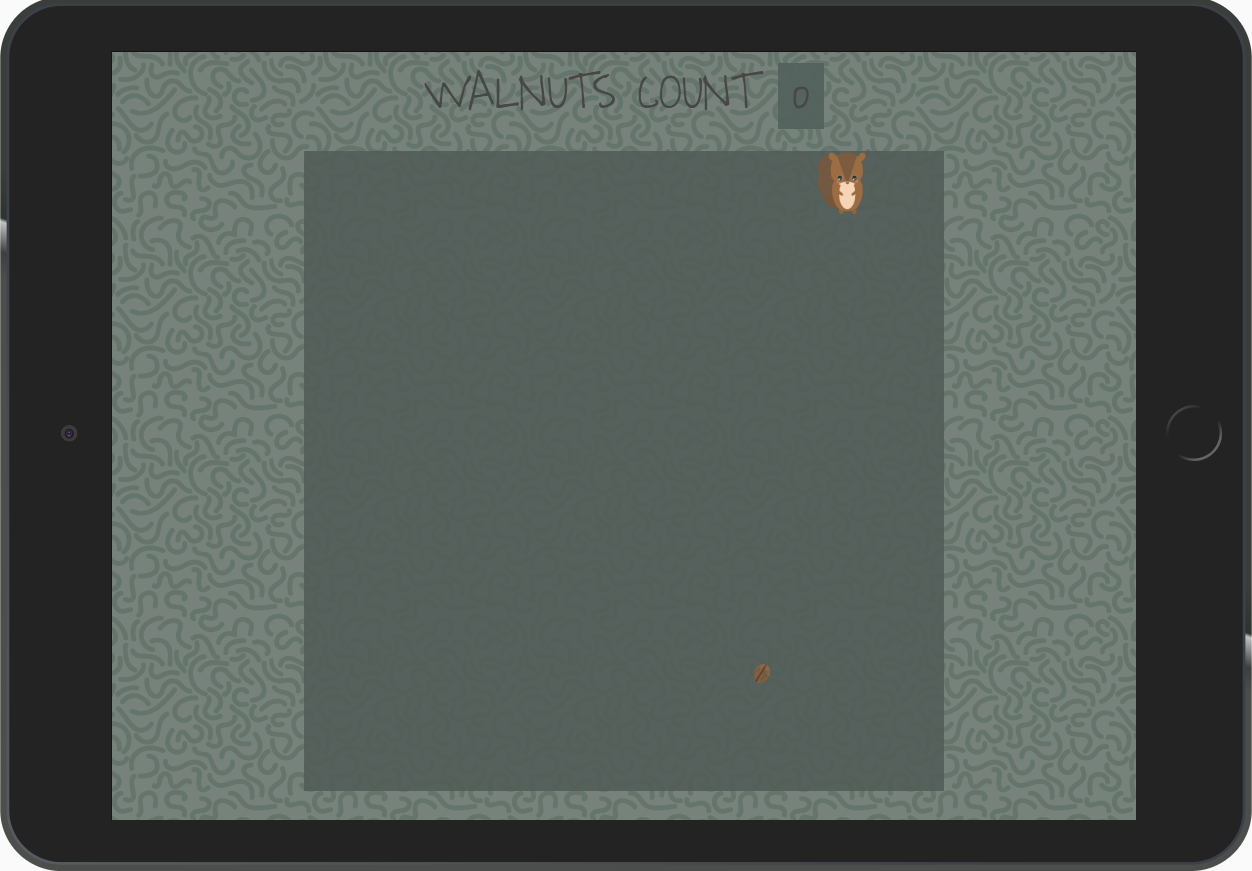
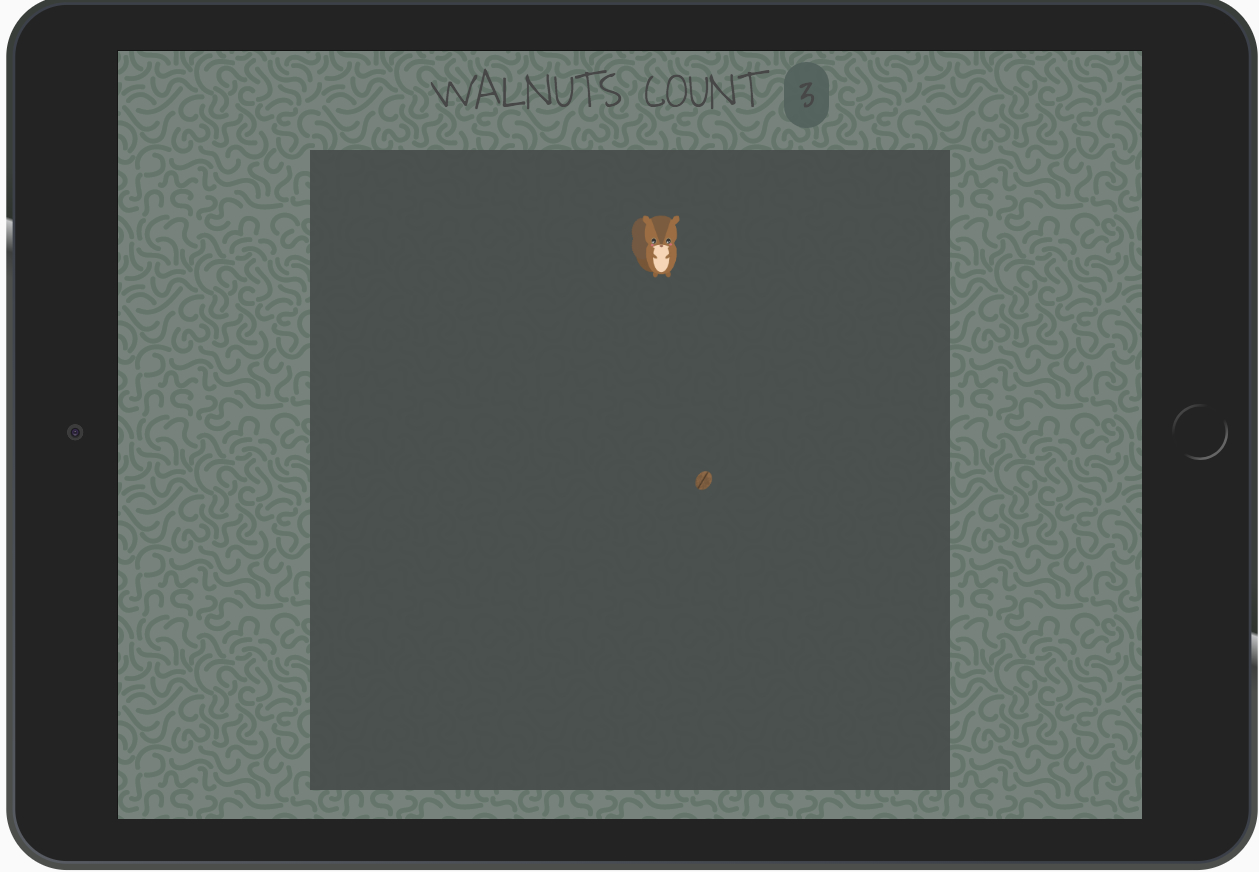
initial commit

diff --git a/css/style.css b/css/style.css
@@ -24,7 +24,7 @@ section#score {
 }
 
 #board  > div { 
-  background-color: rgba(84, 95, 89, 0.92);
+  background-color: rgba(72, 78, 75, 0.92);
   float: left;
   width: 64px;
   height: 64px;
